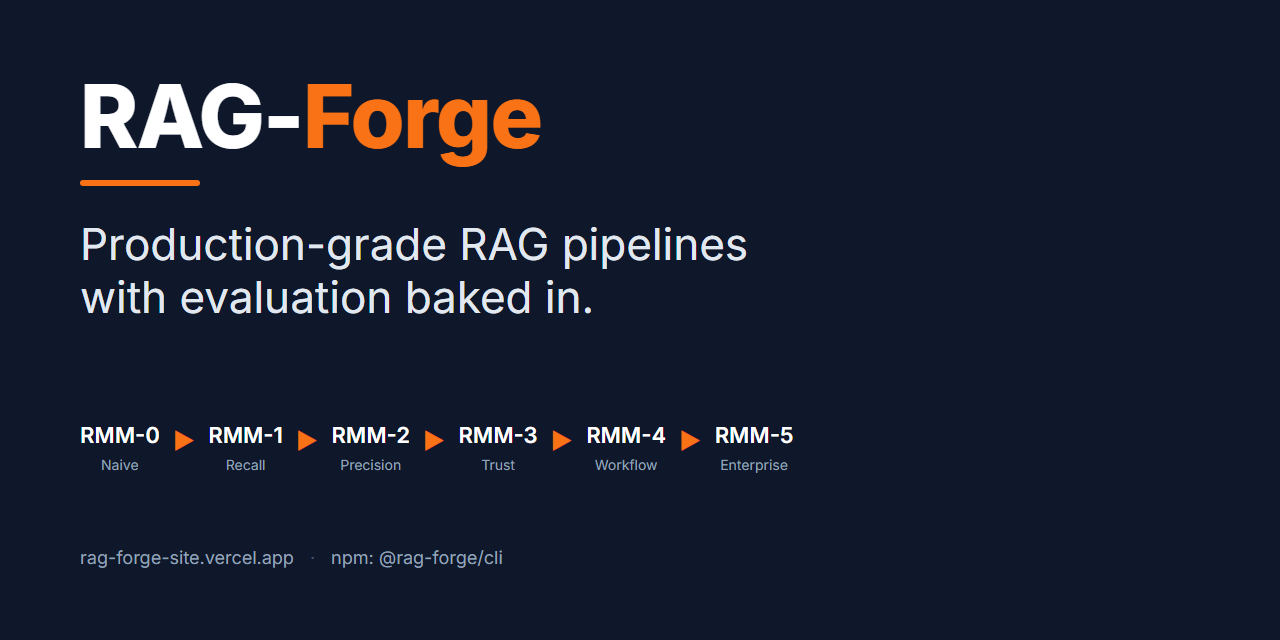
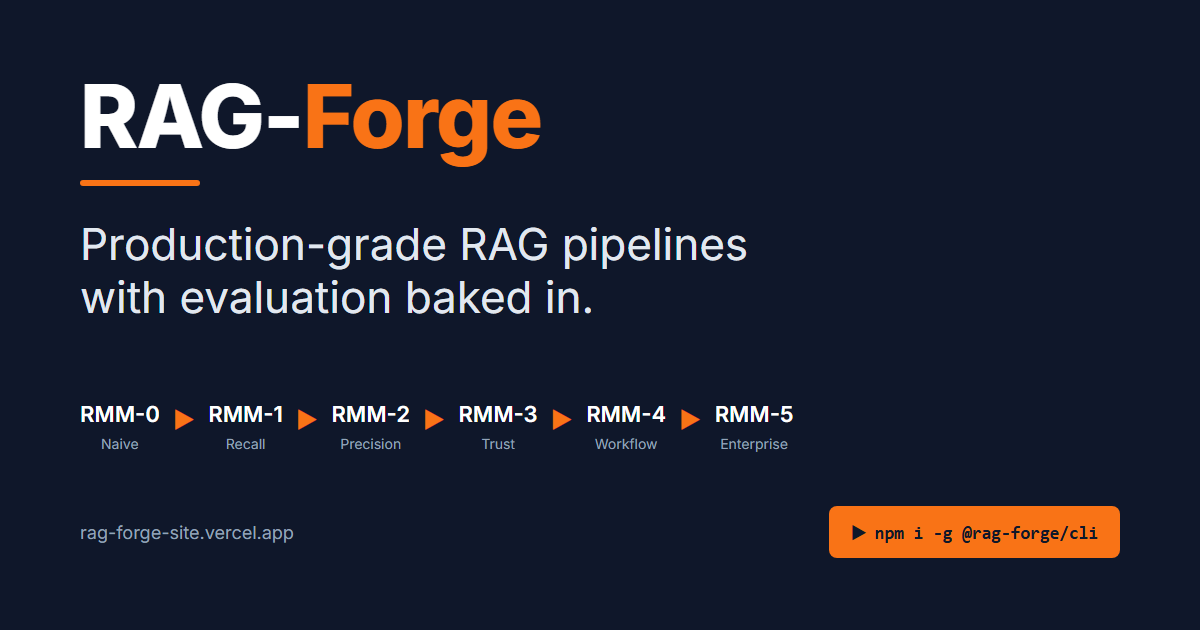
chore(og): regen at 1200x630 with CTA pill (#29)
* chore(og): regen at 1200x630 with npm CTA pill

- Resize to canonical OG spec (1200x630) — works on GitHub and standard social cards (Facebook, Twitter, LinkedIn)
- Add orange CTA pill 'npm i -g @rag-forge/cli' bottom-right
- Update regen instructions in HTML header

* fix(coderabbit): pin Playwright version in regen instructions

Use 'npx -p playwright@1.59.1' for both install and inline node script so
the install and run share the same package and don't drift on a later
@latest. Bump the pinned version intentionally when needed.

diff --git a/.github/og-image.html b/.github/og-image.html
@@ -1,11 +1,15 @@
 <!doctype html>
 <!--
-  Source for .github/og-image.png (1280x640 social preview).
+  Source for .github/og-image.png (1200x630 social preview).
+  1200x630 is the canonical Open Graph spec used by Facebook/Twitter/LinkedIn
+  and works fine on GitHub (which accepts up to 1280x640).
 
-  To regenerate after editing this file (no project devDeps required):
+  To regenerate after editing this file (no project devDeps required).
+  Pin the Playwright version so the install + run share the same package and
+  don't drift on a later @latest. Bump this version intentionally when needed.
 
-    npx -y playwright@latest install chromium
-    node -e "const {chromium}=require('playwright');(async()=>{const b=await chromium.launch();const c=await b.newContext({viewport:{width:1280,height:640},deviceScaleFactor:2});const p=await c.newPage();await p.goto('file://'+process.cwd()+'/.github/og-image.html',{waitUntil:'networkidle'});await p.waitForTimeout(500);await p.screenshot({path:'.github/og-image.png'});await b.close();})()"
+    npx -y -p playwright@1.59.1 playwright install chromium
+    npx -y -p playwright@1.59.1 node -e "const {chromium}=require('playwright');(async()=>{const b=await chromium.launch();const c=await b.newContext({viewport:{width:1200,height:630},deviceScaleFactor:2});const p=await c.newPage();await p.goto('file://'+process.cwd()+'/.github/og-image.html',{waitUntil:'networkidle'});await p.waitForTimeout(500);await p.screenshot({path:'.github/og-image.png'});await b.close();})()"
 
   Then upload the new PNG via repo Settings -> Social preview.
 -->
@@ -25,8 +29,8 @@
       }
       html,
       body {
-        width: 1280px;
-        height: 640px;
+        width: 1200px;
+        height: 630px;
         background: #0f172a;
         font-family: "Inter", system-ui, sans-serif;
         color: #ffffff;
@@ -90,14 +94,24 @@
         padding-bottom: 18px;
       }
       .foot {
+        display: flex;
+        justify-content: space-between;
+        align-items: center;
         font-size: 18px;
         color: #94a3b8;
-        display: flex;
-        gap: 16px;
-        align-items: center;
       }
-      .foot .dot {
-        color: #475569;
+      .foot .cta {
+        background: #f97316;
+        color: #0f172a;
+        padding: 14px 22px;
+        border-radius: 8px;
+        font-weight: 700;
+        font-family: "JetBrains Mono", "Menlo", "Consolas", monospace;
+        font-size: 18px;
+        letter-spacing: -0.01em;
+      }
+      .foot .cta .ctaArrow {
+        margin-right: 8px;
       }
     </style>
   </head>
@@ -125,8 +139,7 @@
       </div>
       <div class="foot">
         <span>rag-forge-site.vercel.app</span>
-        <span class="dot">·</span>
-        <span>npm: @rag-forge/cli</span>
+        <span class="cta"><span class="ctaArrow">▶</span>npm i -g @rag-forge/cli</span>
       </div>
     </div>
   </body>
